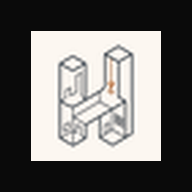
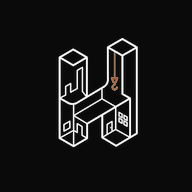
Ingresso rifatto sullo schermo diviso di HANZO
L'accesso prende la stessa forma del login di HANZO: pannello scuro a
sinistra con la trama a griglia e il marchio HANZO grande in filigrana
al 5%, riquadro bianco a destra con il modulo. Nel pannello scuro
l'oggetto della commessa, la consegna dei lavori e l'articolazione
dell'opera: chi apre il collegamento capisce dove è finito prima ancora
di digitare.

Il marchio dell'applicativo torna l'orologio, e l'H di HANZO resta solo
qui all'ingresso: nelle schermate di lavoro sarebbe rumore. In testata
la dicitura "by Hanzo" diventa leggibile invece che sussurrata.

Sotto i 980 pixel il pannello scuro sparisce, come in HANZO, e il
marchio ricompare sopra il modulo: sul telefono altrimenti non si
capiva dove si stava entrando.

Icone della schermata Home rifatte col marchio HANZO bianco su fondo
nero, che sul fondo scuro si vede — quello scuro spariva.

diff --git a/index.html b/index.html
@@ -7,7 +7,7 @@
 <meta name="description" content="Applicativo di programmazione e controllo della commessa: cronoprogramma contrattuale a confronto con l'avanzamento reale, documentazione fotografica, bolle di consegna, presenze di cantiere e richieste.">
 <meta name="theme-color" content="#0a0a0a">
 <link rel="icon" href="assets/favicon.ico" sizes="any">
-<link rel="icon" href="assets/hanzo-512.png" type="image/png">
+<link rel="icon" href="assets/icona-512.png" type="image/png">
 <link rel="manifest" href="manifest.json">
 <link rel="apple-touch-icon" href="assets/icona-192.png">
 <meta name="apple-mobile-web-app-capable" content="yes">
@@ -23,27 +23,69 @@
 
 <!-- ═══════════════════════ ACCESSO ═══════════════════════ -->
 <div id="login" class="login" hidden>
-  <div class="login-card">
-    <div class="brand">
-      <div class="brand-glyph"><img src="assets/hanzo-512.png" alt="" width="512" height="512"></div>
-      <i class="bi bi-clock-history brand-orologio" aria-hidden="true"></i>
-      <div class="brand-txt">
-        <div class="brand-name">KRONOS</div>
-        <small class="brand-by">by Hanzo</small>
+  <div class="lg-split">
+
+    <aside class="lg-visual">
+      <div class="lg-top">
+        <div class="lg-brand">
+          <span class="lg-brand-mark"><i class="bi bi-clock-history"></i></span>
+          <div>
+            <div class="lg-brand-name">KRONOS</div>
+            <small class="lg-brand-by">by Hanzo</small>
+          </div>
+        </div>
+        <span class="lg-status"><span class="dot"></span> Commessa in corso</span>
       </div>
-    </div>
 
-    <div class="login-commessa">
-      <span class="eyebrow">Commessa 3613</span>
-      Costruzione Nuovo Asilo Nido Comunale — Comune di Marcaria (MN)
-    </div>
+      <div class="lg-mid">
+        <span class="lg-pill">Commessa 3613</span>
+        <h1 class="lg-head">Nuovo Asilo Nido<br><span class="muted">Comune di Marcaria</span></h1>
+        <p class="lg-sub">Cronoprogramma contrattuale e avanzamento reale a confronto, foto delle lavorazioni, bolle dei materiali e operai presenti in cantiere. Aggiornato settimana per settimana.</p>
 
-    <div class="segm larga" id="accessoSwitch">
-      <button type="button" data-modo="accedi" class="on">Accedi</button>
-      <button type="button" data-modo="registrati">Registrati</button>
-    </div>
+        <div class="lg-cards">
+          <div class="lg-card">
+            <span class="lg-card-ico"><i class="bi bi-flag-fill"></i></span>
+            <div class="lg-card-body">
+              <div class="lg-card-val">05/10/2026</div>
+              <div class="lg-card-sub">Consegna dei lavori</div>
+            </div>
+            <span class="lg-badge lg-badge--mono">121 giorni</span>
+          </div>
+          <div class="lg-card">
+            <span class="lg-card-ico"><i class="bi bi-bar-chart-steps"></i></span>
+            <div class="lg-card-body">
+              <div class="lg-card-val">28 lavorazioni</div>
+              <div class="lg-card-sub">Articolazione dell'opera, dalle fondazioni agli impianti</div>
+            </div>
+          </div>
+        </div>
+      </div>
 
-    <form id="loginForm" class="login-form" autocomplete="on">
+      <div class="lg-foot">
+        <span>Artedile · Enenso</span>
+        <span>Raggruppamento temporaneo di imprese</span>
+      </div>
+    </aside>
+
+    <main class="lg-form">
+      <div class="lg-form-inner">
+        <div class="lg-marchio-stretto">
+          <span class="lg-brand-mark"><i class="bi bi-clock-history"></i></span>
+          <div>
+            <div class="lg-brand-name">KRONOS</div>
+            <small class="lg-brand-by">by Hanzo</small>
+          </div>
+        </div>
+        <div class="lg-eyebrow">Accesso riservato</div>
+        <h3>Entra nel cantiere</h3>
+        <p class="lg-form-sub">Chi è già registrato entra con email e password. Chi entra la prima volta usa il codice della propria parte.</p>
+
+        <div class="segm larga" id="accessoSwitch">
+          <button type="button" data-modo="accedi" class="on">Accedi</button>
+          <button type="button" data-modo="registrati">Registrati</button>
+        </div>
+
+<form id="loginForm" class="login-form" autocomplete="on">
       <label class="field"><span>Indirizzo email</span>
         <input type="email" id="logEmail" required autocomplete="username" placeholder="nome@dominio.it"></label>
       <label class="field"><span>Password</span>
@@ -52,7 +94,7 @@
       <button class="btn primary" id="logBtn" type="submit" style="justify-content:center;padding:11px">Accedi</button>
     </form>
 
-    <form id="regForm" class="login-form" autocomplete="on" hidden>
+<form id="regForm" class="login-form" autocomplete="on" hidden>
       <label class="field"><span>Nome e cognome</span>
         <input type="text" id="regNome" required autocomplete="name" placeholder="Mario Rossi"></label>
       <label class="field"><span>Indirizzo email</span>
@@ -68,14 +110,14 @@
       <button class="btn primary" id="regBtn" type="submit" style="justify-content:center;padding:11px">Richiedi l'accesso</button>
     </form>
 
-    <div id="attesaBox" class="login-attesa" hidden>
+<div id="attesaBox" class="login-attesa" hidden>
       <i class="bi bi-hourglass-split"></i>
       <b>Richiesta inviata</b>
       <p id="attesaTesto">L'utenza è stata creata e attende l'abilitazione del responsabile della commessa. Riceverai accesso appena sarà approvata.</p>
       <button class="btn" id="attesaEsci">Esci</button>
     </div>
 
-    <div id="demoBox" class="login-demo" hidden>
+<div id="demoBox" class="login-demo" hidden>
       <span class="eyebrow">Modalità dimostrativa</span>
       <p>Il collegamento all'archivio condiviso non è configurato. È possibile provare l'applicativo in locale: i dati restano su questo dispositivo e non vengono condivisi.</p>
       <div class="login-demo-btns">
@@ -84,15 +126,18 @@
       </div>
     </div>
 
-    <div class="login-marchi">
-      <span class="eyebrow">Raggruppamento di imprese</span>
-      <span class="marchi" role="img" aria-label="Raggruppamento temporaneo di imprese: Artedile e Enenso">
-        <span class="m3d"><img src="assets/artedile.png" alt="Artedile" width="132" height="72"></span>
-        <span class="m3d enenso"><img src="assets/enenso.png" alt="Enenso — Power generation &amp; facility management" width="640" height="157"></span>
-      </span>
-    </div>
+        <div class="login-marchi">
+          <span class="eyebrow">Raggruppamento di imprese</span>
+          <span class="marchi" role="img" aria-label="Artedile e Enenso">
+            <span class="m3d"><img src="assets/artedile.png" alt="Artedile" width="132" height="72"></span>
+            <span class="m3d enenso"><img src="assets/enenso.png" alt="Enenso" width="640" height="157"></span>
+          </span>
+        </div>
 
-    <p class="login-foot">Accesso riservato ai soggetti autorizzati della commessa. Le credenziali sono rilasciate dal responsabile dell'applicativo.</p>
+        <p class="login-foot">Le credenziali e i codici sono rilasciati dal responsabile della commessa.</p>
+      </div>
+    </main>
+
   </div>
 </div>
 
@@ -108,8 +153,7 @@
     </div>
     <div class="topbar-in">
       <div class="brand">
-        <div class="brand-glyph"><img src="assets/hanzo-512.png" alt="" width="512" height="512"></div>
-      <i class="bi bi-clock-history brand-orologio" aria-hidden="true"></i>
+        <div class="brand-glyph"><i class="bi bi-clock-history"></i></div>
         <div class="brand-txt">
           <div class="brand-name">KRONOS</div>
           <small class="brand-by">by Hanzo</small>

diff --git a/css/app.css b/css/app.css
@@ -52,30 +52,77 @@ a{color:var(--ink);text-underline-offset:2px}
   width:34px;height:34px;flex:none;border-radius:9px;background:var(--ink);
   display:grid;place-items:center;overflow:hidden;
 }
-.brand-glyph img{width:80%;height:80%;object-fit:contain}
-/* l'orologio resta di fianco: dice di che cosa si occupa l'applicativo */
-.brand-orologio{font-size:1.05rem;color:var(--mute);flex:none;margin:0 -2px 0 -3px}
+.brand-glyph i{color:#fff;font-size:.95rem}
 .brand-txt{line-height:1}
 .brand-name{font-size:1.12rem;font-weight:800;letter-spacing:.13em;color:var(--ink)}
 .brand-by{
-  display:block;margin-top:2px;font-size:.53rem;font-weight:800;
-  letter-spacing:.24em;color:var(--mute);text-transform:uppercase;
+  display:block;margin-top:3px;font-size:.62rem;font-weight:800;
+  letter-spacing:.2em;color:var(--ink-3);text-transform:uppercase;
 }
 
-/* ───────────────────────────── accesso ───────────────────────────── */
-.login{min-height:100vh;display:grid;place-items:center;padding:24px 16px;background:var(--surface-2)}
-.login-card{
-  width:100%;max-width:440px;background:var(--surface);border:1px solid var(--line);
-  border-radius:var(--r-xl);box-shadow:var(--sh-2);padding:30px 28px 22px;
-}
-.login-card .brand{margin-bottom:22px}
-.login-card .brand-glyph{width:40px;height:40px;border-radius:11px}
-.login-card .brand-orologio{font-size:1.2rem}
-.login-commessa{
-  background:var(--surface-3);border-radius:var(--r-md);padding:12px 14px;margin-bottom:20px;
-  font-size:.82rem;color:var(--ink-3);
-}
-.login-commessa .eyebrow{display:block;margin-bottom:3px}
+/* ─────────────── accesso: schermo diviso, come il login di HANZO ─────────────── */
+.login{min-height:100vh;background:var(--surface)}
+.lg-split{min-height:100vh;display:grid;grid-template-columns:1.05fr .95fr}
+
+/* pannello scuro */
+.lg-visual{position:relative;overflow:hidden;background:#0a0a0a;color:#fff;
+  padding:48px 54px;display:flex;flex-direction:column;justify-content:space-between}
+.lg-visual::before{content:"";position:absolute;inset:0;pointer-events:none;
+  background-image:linear-gradient(rgba(255,255,255,.035) 1px,transparent 1px),
+                   linear-gradient(90deg,rgba(255,255,255,.035) 1px,transparent 1px);
+  background-size:48px 48px}
+/* il marchio HANZO grande, dietro tutto */
+.lg-visual::after{content:"";position:absolute;right:-70px;bottom:-90px;
+  width:460px;height:460px;opacity:.05;pointer-events:none;
+  background:url("../assets/hanzo-bianco.png") no-repeat center / contain}
+.lg-visual > *{position:relative;z-index:2}
+
+.lg-top{display:flex;align-items:center;justify-content:space-between;gap:14px;flex-wrap:wrap}
+.lg-brand{display:flex;align-items:center;gap:13px}
+.lg-brand-mark{width:46px;height:46px;border-radius:13px;flex:none;
+  background:rgba(255,255,255,.06);border:1px solid rgba(255,255,255,.12);
+  display:grid;place-items:center;font-size:1.3rem;color:#fff}
+.lg-brand-name{font-size:1.25rem;font-weight:800;letter-spacing:.18em;line-height:1}
+.lg-brand-by{display:block;margin-top:4px;font-size:.58rem;font-weight:800;
+  letter-spacing:.24em;text-transform:uppercase;color:#8a8a8a}
+.lg-status{display:inline-flex;align-items:center;gap:7px;font-size:.68rem;font-weight:700;
+  letter-spacing:.14em;color:#a3a3a3;text-transform:uppercase}
+.lg-status .dot{width:8px;height:8px;border-radius:50%;background:#22c55e;
+  box-shadow:0 0 0 0 rgba(34,197,94,.5);animation:lgPulse 2.2s infinite}
+@keyframes lgPulse{0%{box-shadow:0 0 0 0 rgba(34,197,94,.5)}70%{box-shadow:0 0 0 8px rgba(34,197,94,0)}}
+
+.lg-mid{margin:auto 0}
+.lg-pill{display:inline-flex;align-items:center;gap:8px;font-size:.66rem;font-weight:700;
+  letter-spacing:.14em;text-transform:uppercase;color:#d4d4d4;
+  background:rgba(255,255,255,.05);border:1px solid rgba(255,255,255,.12);
+  padding:7px 15px;border-radius:100px;margin-bottom:26px}
+.lg-head{font-size:3.05rem;font-weight:800;line-height:1.04;letter-spacing:-1.8px;margin:0}
+.lg-head .muted{color:#6b6b6b}
+.lg-sub{color:#b4b4b4;font-size:1rem;line-height:1.6;margin:20px 0 30px;max-width:470px}
+
+.lg-cards{display:flex;flex-direction:column;gap:12px;max-width:480px}
+.lg-card{display:flex;align-items:center;gap:14px;background:rgba(255,255,255,.04);
+  border:1px solid rgba(255,255,255,.09);border-radius:16px;padding:15px 17px}
+.lg-card-ico{width:42px;height:42px;border-radius:11px;flex:none;background:rgba(255,255,255,.92);
+  color:#0a0a0a;display:grid;place-items:center;font-size:1.15rem}
+.lg-card-body{flex:1;min-width:0}
+.lg-card-val{font-size:1.3rem;font-weight:800;letter-spacing:-.5px;line-height:1.1}
+.lg-card-sub{font-size:.75rem;color:#8a8a8a;margin-top:3px}
+.lg-badge{font-size:.72rem;font-weight:700;padding:5px 10px;border-radius:8px;flex:none;
+  background:rgba(255,255,255,.07);color:#d4d4d4;letter-spacing:.03em}
+
+.lg-foot{display:flex;gap:22px;flex-wrap:wrap;font-size:.74rem;color:#7a7a7a}
+.lg-foot span{display:inline-flex;align-items:center;gap:7px}
+.lg-foot span::before{content:"";width:5px;height:5px;border-radius:50%;background:#4a4a4a}
+
+/* pannello del modulo */
+.lg-form{background:var(--surface);display:flex;align-items:center;justify-content:center;padding:40px 48px}
+.lg-form-inner{width:100%;max-width:420px}
+.lg-eyebrow{font-size:.7rem;font-weight:700;letter-spacing:.18em;color:var(--mute-2);
+  text-transform:uppercase;margin-bottom:10px}
+.lg-form-inner h3{font-size:2rem;font-weight:800;letter-spacing:-.8px;margin:0 0 8px;color:var(--ink)}
+.lg-form-sub{color:var(--mute);font-size:.88rem;margin:0 0 24px;line-height:1.55}
+
 .login-form{display:flex;flex-direction:column;gap:14px}
 .login-err{background:var(--no-bg);color:var(--no);border:1px solid var(--no-line);
   padding:9px 12px;font-size:.8rem;border-radius:var(--r-sm)}
@@ -83,7 +130,22 @@ a{color:var(--ink);text-underline-offset:2px}
 .login-demo p{font-size:.78rem;color:var(--mute);margin:6px 0 12px}
 .login-demo-btns{display:flex;flex-direction:column;gap:8px}
 .login-demo-btns .btn{justify-content:center}
-.login-foot{margin-top:20px;font-size:.7rem;color:var(--mute-2);line-height:1.6}
+.login-foot{margin-top:18px;font-size:.7rem;color:var(--mute-2);line-height:1.5}
+
+/* il marchio compare solo dove il pannello scuro non c'è */
+.lg-marchio-stretto{display:none;align-items:center;gap:12px;margin-bottom:26px}
+.lg-marchio-stretto .lg-brand-mark{background:var(--ink);border-color:var(--ink);color:#fff}
+.lg-marchio-stretto .lg-brand-name{color:var(--ink)}
+.lg-marchio-stretto .lg-brand-by{color:var(--mute)}
+
+@media (max-width:980px){
+  .lg-split{grid-template-columns:1fr}
+  .lg-visual{display:none}
+  .lg-form{padding:28px 20px;align-items:flex-start}
+  .lg-form-inner{padding-top:10px}
+  .lg-marchio-stretto{display:flex}
+  .lg-form-inner h3{font-size:1.7rem}
+}
 
 /* ───────────────────────────── testata ───────────────────────────── */
 .topbar{position:sticky;top:0;z-index:30;background:var(--surface);border-bottom:1px solid var(--line)}
